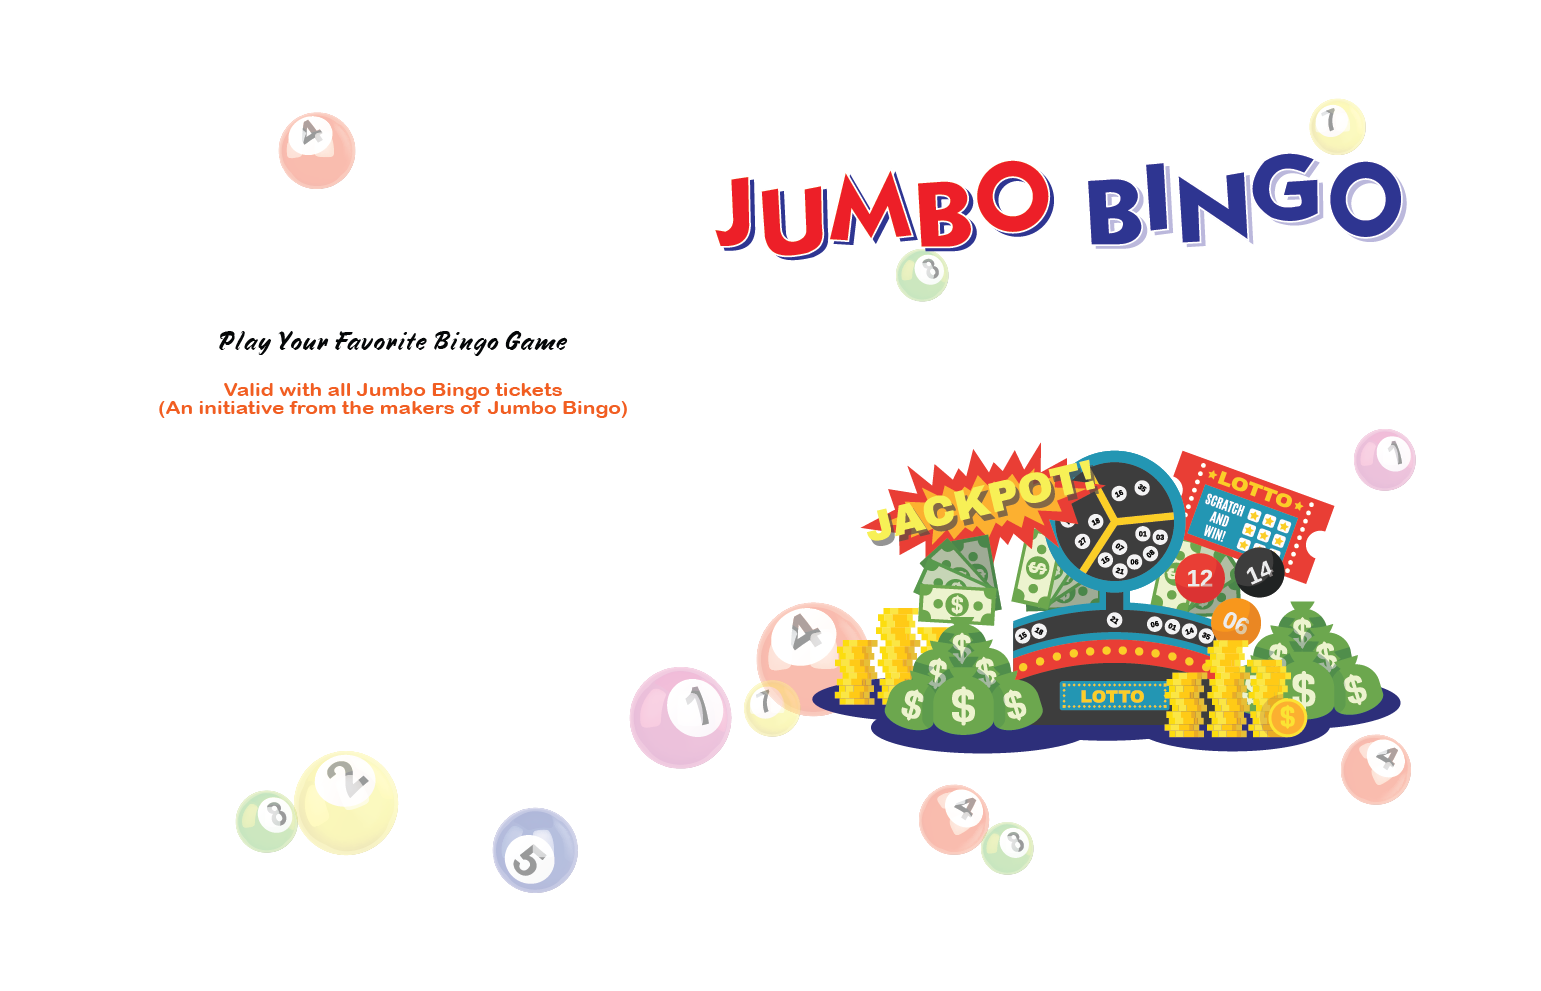
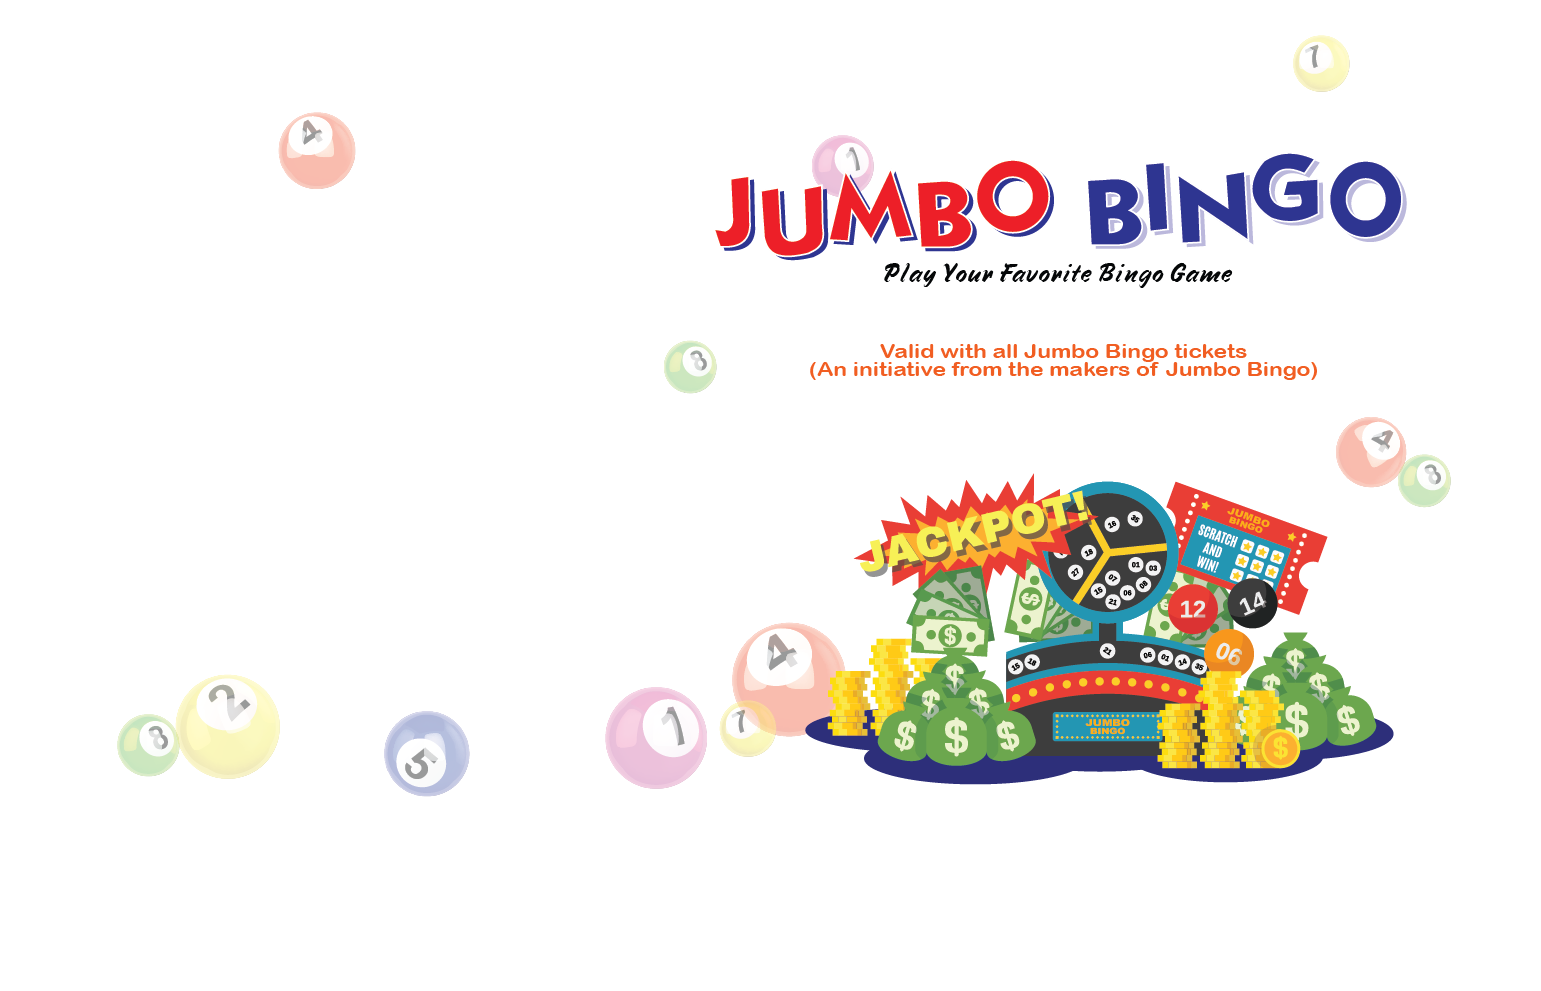
today updates

diff --git a/assets/jumbobingo.js b/assets/jumbobingo.js
@@ -5,6 +5,7 @@ $(document).ready(function () {
     var gameLiveNumberStack = [];
     var gameStartCalledNumbers = [];
     var userGamesList = [];
+   
 
     var chkAudio = true;
     var numberExhausted = false;
@@ -14,6 +15,7 @@ $(document).ready(function () {
     
     var initAPIs = {};
     var userGameMst = {};
+    var selectedGameForPlay={};
    
     var setIntervalVal = "";
     var userID = "";
@@ -25,6 +27,7 @@ $(document).ready(function () {
     var Name = "";
     var Token = "";
     var ticketsInPlay = "";
+    var selectedGameID="";
     var time = 500;
 
     var soldFrom = 0;
@@ -399,6 +402,17 @@ $(document).ready(function () {
 
 
         return options;
+    }
+
+    function getOptionsNameForDisplay(color) {
+        var colorName = "";
+        $.each(gameMasterColors, function (key, value) {            
+            if (color.id == value["ColorID"]) {
+               colorName= value["Colors"];
+                
+            }              
+        });
+        return colorName;
     }
 
     function setNumbersChangedValue(obj) {
@@ -1853,9 +1867,7 @@ $(document).ready(function () {
     }
 
 
-    function getDetailID(SetupID,GameID){
-        // console.log("SetupID > ",SetupID);
-        // console.log("GameID > ",GameID);
+    function getDetailID(SetupID,GameID){        
         let ID=0;
         let AllGameDetails=userGameMst.AllGameDetails;
         console.log("AllGameDetails > ",AllGameDetails);
@@ -1892,19 +1904,12 @@ $(document).ready(function () {
         $("#select-game-modal-choose-game-tkt-display").text(id);
 
         //get table list of game details from mst
-        displayGameDetailsInSelectGameModal();
+        displayGameDetailsInSelectGameModal(SetupID);
+        setGameName(SetupID);
          
     }); 
     
     $(".calculateData").on("keyup", function (e) {
-
-        // var soldFrom = 0;
-        // var soldTo = 0;
-        // var bookletPrice = 0;
-        // var totalTicketsSold = 0;
-        // var totalPrice = 0;
-        // var totalRevenue = 0;
-        // var totalGain = 0;
 
          soldFrom=$("#sold-from").val();
          soldTo=$("#sold-to").val();
@@ -1927,10 +1932,38 @@ $(document).ready(function () {
                 $("#total-revenue").val(0);
             }else{
                 $("#total-revenue").val(roundOffRevenue);
-            }
+                
+                totalPrice = $("#total-price").val();
+                totalPrice=(Math.round(parseFloat(totalPrice) * 100) / 100).toFixed(2);
+                totalGain=parseFloat(roundOffRevenue)-parseFloat(totalPrice);
+                totalGain=(Math.round(parseFloat(totalGain) * 100) / 100).toFixed(2);
+                $("#total-gain").val(totalGain);
+            }           
             
-        }
-        
+        }        
+    });
+
+    $("#game-call-speed").on("keyup", function (e) {
+        time=$(this).val();
+    });
+
+    $(document).on('click', '.playSelectedGame', function (e) {    
+        console.log("Hi e > ",e);
+        console.log("Hi e.target > ",e.target);
+        selectedGameID=$(this).attr("role");//to selected the game master ID
+       
+    });
+
+     
+    $("#play-btn-from-select-game").click(function(){
+        console.log("Hi your have selectedGameID > ",selectedGameID);        
+        $.each(selectedGameForPlay, function (key, value) {
+            if (value.ID == selectedGameID) {
+                console.log("Play Clicked Now searching > value > ",value);
+                $(".ScreengameName").text(value.GameName);
+                $(".ScreengameColor").text(value.Color);
+            }
+        });
     });
 
     function getNumberOfTickets(tktNo){
@@ -1943,10 +1976,123 @@ $(document).ready(function () {
           return noOfTickets;
     }
 
+     
+    function setGameName(SetupID){
+        $('#gameScreen-game-select').children().remove();
+       
+        
+        let gameDetailList = [];
+        let AllGameDetails = userGameMst.AllGameDetails;        
+        $.each(AllGameDetails, function (key, value) {
+            if (value.SetupID == SetupID) {
+                console.log("setGameName > value > ",value);
+                gameDetailList.push(value);
+            }
+        });
+        selectedGameForPlay=gameDetailList;
+        $.each(selectedGameForPlay, function (key, value) {
+            $('#gameScreen-game-select')
+            .append($("<option></option>")
+                .attr("value", value.ID)
+                .attr("role", value.SetupID)
+                .attr("class", value.GameID)
+                .attr("selected", '')
+                .text(value.GameName));
+          });
+
+
+         
+         
+    }
+
+    function displayGameDetailsInSelectGameModal(SetupID){
+        let totalPrize=0;
+        $("#select-game-forPlay-Game-detail-display tbody").empty();
+        $("#edit_setup_table tbody").empty();
+        $("#new_setup_table tbody").empty();
+        console.log("=======================================================");        
+        let gameDetailList = [];
+        let AllGameDetails = userGameMst.AllGameDetails;        
+        $.each(AllGameDetails, function (key, value) {
+            if (value.SetupID == SetupID) {               
+                gameDetailList.push(value);
+            }
+        });
+        console.log("gameDetailList > ", gameDetailList);
+
+        for( let i=0;i<gameDetailList.length;i++){
+
+            var OneLnPrice=gameDetailList[i].OneLnPrice;
+            var TwoLnPrice=gameDetailList[i].TwoLnPrice;
+            var FHPrice=gameDetailList[i].FHPrice;
+            var CornerPrice=gameDetailList[i].CornerPrice;
+            var mastergameDetailID=gameDetailList[i].ID;
+
+            var eachRowPrice=parseFloat(OneLnPrice)+parseFloat(TwoLnPrice)+parseFloat(FHPrice)+parseFloat(CornerPrice);
+            
+            var ID = gameDetailList[i].GameID;
+            var GAME_NAME = gameDetailList[i].GameName;
+            var C = {
+                "id": gameDetailList[i].ColorID,
+                "name": gameDetailList[i].Color
+            };
+            var GameColor = getOptionsNameForDisplay(C);
+
+            var onlineTD="";
+            var twoLineTD="";
+            var fullHTD="";
+            var cornerTD="";
+
+            var IsOneLn=false;
+            var IsTwoLn=false;
+            var IsFH=false;
+            var IsCorner=false;
+
+             IsOneLn=gameDetailList[i].IsOneLn;
+             IsTwoLn=gameDetailList[i].IsTwoLn;
+             IsFH=gameDetailList[i].IsFH;
+             IsCorner=gameDetailList[i].IsCorner;
+
+             onlineTD=OneLnPrice;
+             twoLineTD=TwoLnPrice;
+             fullHTD=FHPrice;
+             cornerTD=CornerPrice;
+
+             var radioBtn="<p><label><input name='select-toPlay-game' role='"+mastergameDetailID+"' class='playSelectedGame' type='radio' /><span class='radio-label'>&nbsp;</span></label></p>";
+          
+            var tr = "<tr>" +
+            "<td> <input id='game_id_" + i + "' role='" + ID + "' type='hidden' value='" + GAME_NAME + "'/> " + GAME_NAME + " </td>" +
+            "<td>" +
+            GameColor
+            + "</td>" +
+            "<td>" +
+            onlineTD
+            + "</td>" +
+            "<td>" +
+            twoLineTD
+            + "</td>" +
+            "<td>" +
+            fullHTD
+            + "</td>" +
+            "<td>" +
+            cornerTD 
+            + "</td>" +
+            "<td>"+radioBtn+"</td>"
+            +"</tr>";
+         $("#select-game-forPlay-Game-detail-display tbody").append(tr);
+         totalPrize=parseFloat(totalPrize)+parseFloat(eachRowPrice);
+        }
+        displayTotalPrize(totalPrize);
+    }
+
+    function  displayTotalPrize(totalPrize){
+        let roundOfftotalPrize=(Math.round(totalPrize * 100) / 100).toFixed(2);
+        totalPrice=roundOfftotalPrize;
+          $("#total-price").val(roundOfftotalPrize);
+    }
+
     
-    $("#game-call-speed").on("keyup", function (e) {
-        time=$(this).val();
-    });
+  
 
 
     //---------------------------------------------

diff --git a/dashboard/index.html b/dashboard/index.html
@@ -496,7 +496,7 @@
             <div style="margin-top: -20px !important;">
                 <h5 class="center-align light-blue-text text-darken-4 user-clubName" style="font-weight: bold;">ST Limited Game</h5>
                 <h6 class="center-align light-blue-text text-darken-3"
-                    style="font-weight: bold;margin-top: -12px !important;">Jumbo Bingo : Game Name : Color</h6>
+                    style="font-weight: bold;margin-top: -12px !important;"> <span class="black-text">Jumbo Bingo</span> : <span class="ScreengameName"></span> : <span  class="ScreengameColor"></span></h6>
             </div>
             <div class="row">
                 <div class="col s6 game-play-div " style="margin-top: 10px !important;">
@@ -572,8 +572,7 @@
                         <div class="indeterminate yellow"></div>
                     </div>
                     <div id="current-ticket-display-div" style="margin-top: 5px;"></div>
-                    <select id="game-game-select" class="browser-default " style="margin-top: 11px;">
-                        <option value="" disabled selected>Select Game</option>
+                    <select id="gameScreen-game-select" class="browser-default " style="margin-top: 11px;">
                         
                     </select>
                 </div>
@@ -737,6 +736,7 @@
                                         <th class="indigo darken-4">Two Line</th>
                                         <th class="indigo darken-4">Full House</th>
                                         <th class="indigo darken-4">Corner</th>
+                                        <th class="indigo darken-4">&nbsp;</th>
                                     </tr>
                                 </thead>
                                 <tbody>
@@ -854,9 +854,10 @@
 
         </div>
         <div class="modal-footer  brown lighten-4">
+             
             <a id="play-btn-from-select-game" href="#modal3"
                 class="waves-effect waves-green btn-small black modal-trigger">PLAY</a>
-            <a href="javascript:Void(0);" class="modal-close waves-effect waves-green btn-flat">Cancel</a>
+            <a href="#" class="modal-close waves-effect waves-green btn-flat">Cancel</a>
         </div>
     </div>
 

diff --git a/index.html b/index.html
@@ -260,14 +260,14 @@
   <nav class="indigo darken-4">
     <marquee>
      <a class="white-text">
-       Jumbo Bingo
+       Play Your Favorite Bingo game, <span class="orange-text">Valid with all Jumbo Bingo tickets (An initiative from the makers of Jumbo Bingo)</span>
      </a>
     </marquee>     
   </nav>
 
  <div class="row">
   <div class="col s12">
-    <div class="left" style="margin-top: 400px; margin-left: -580px !important;">
+    <div class="left" style="margin-top: 250px; margin-left: -580px !important;">
 
       <div id="hide-when-logged-in">
         <div class="row ">
